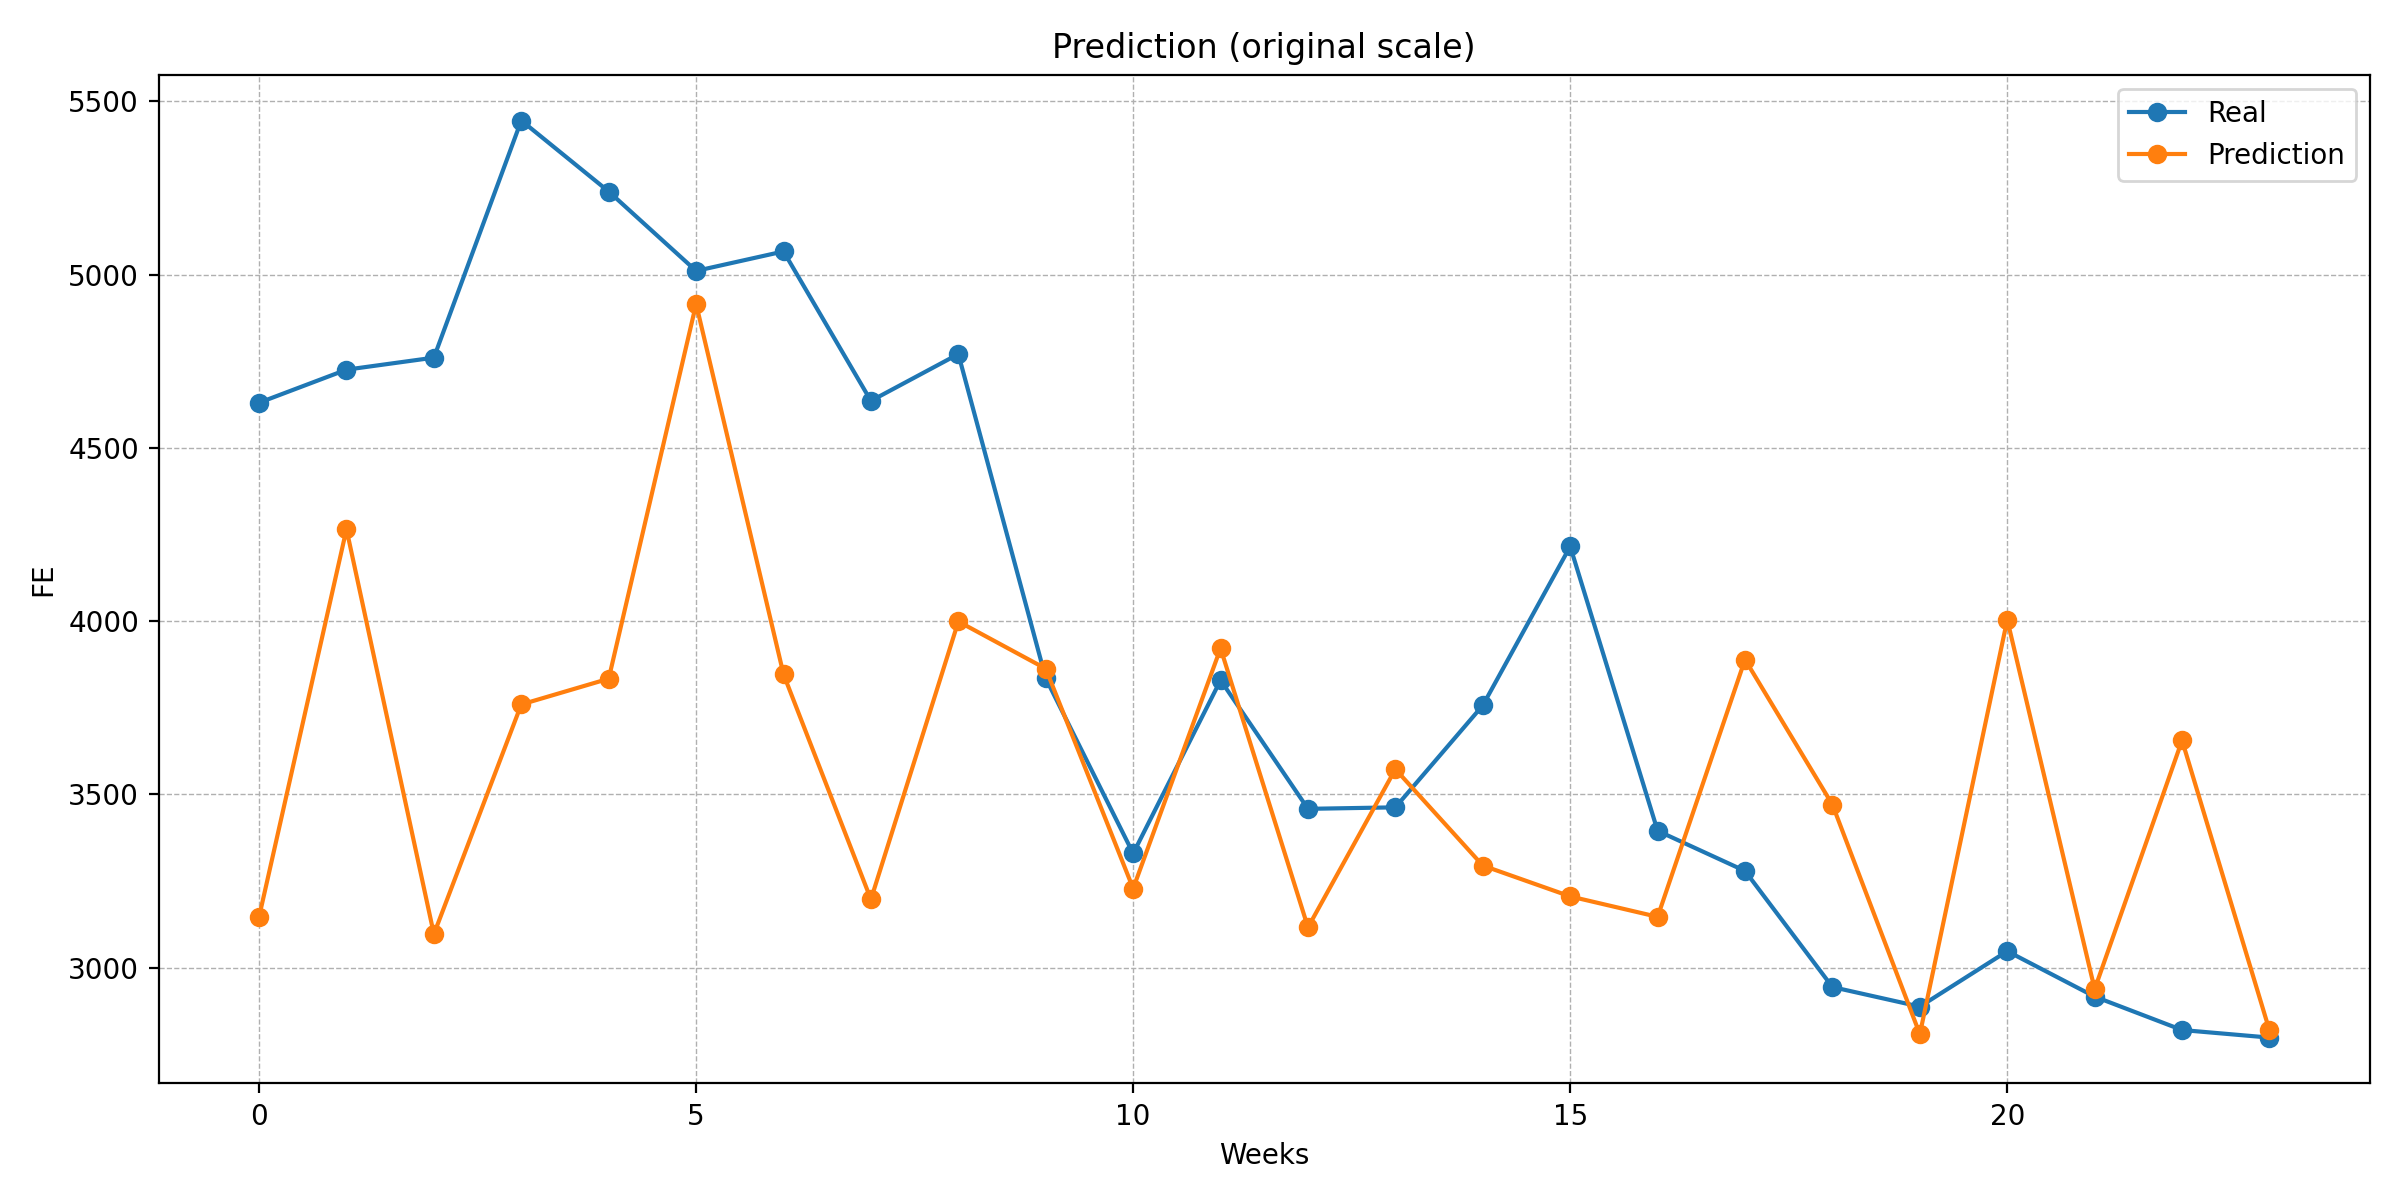
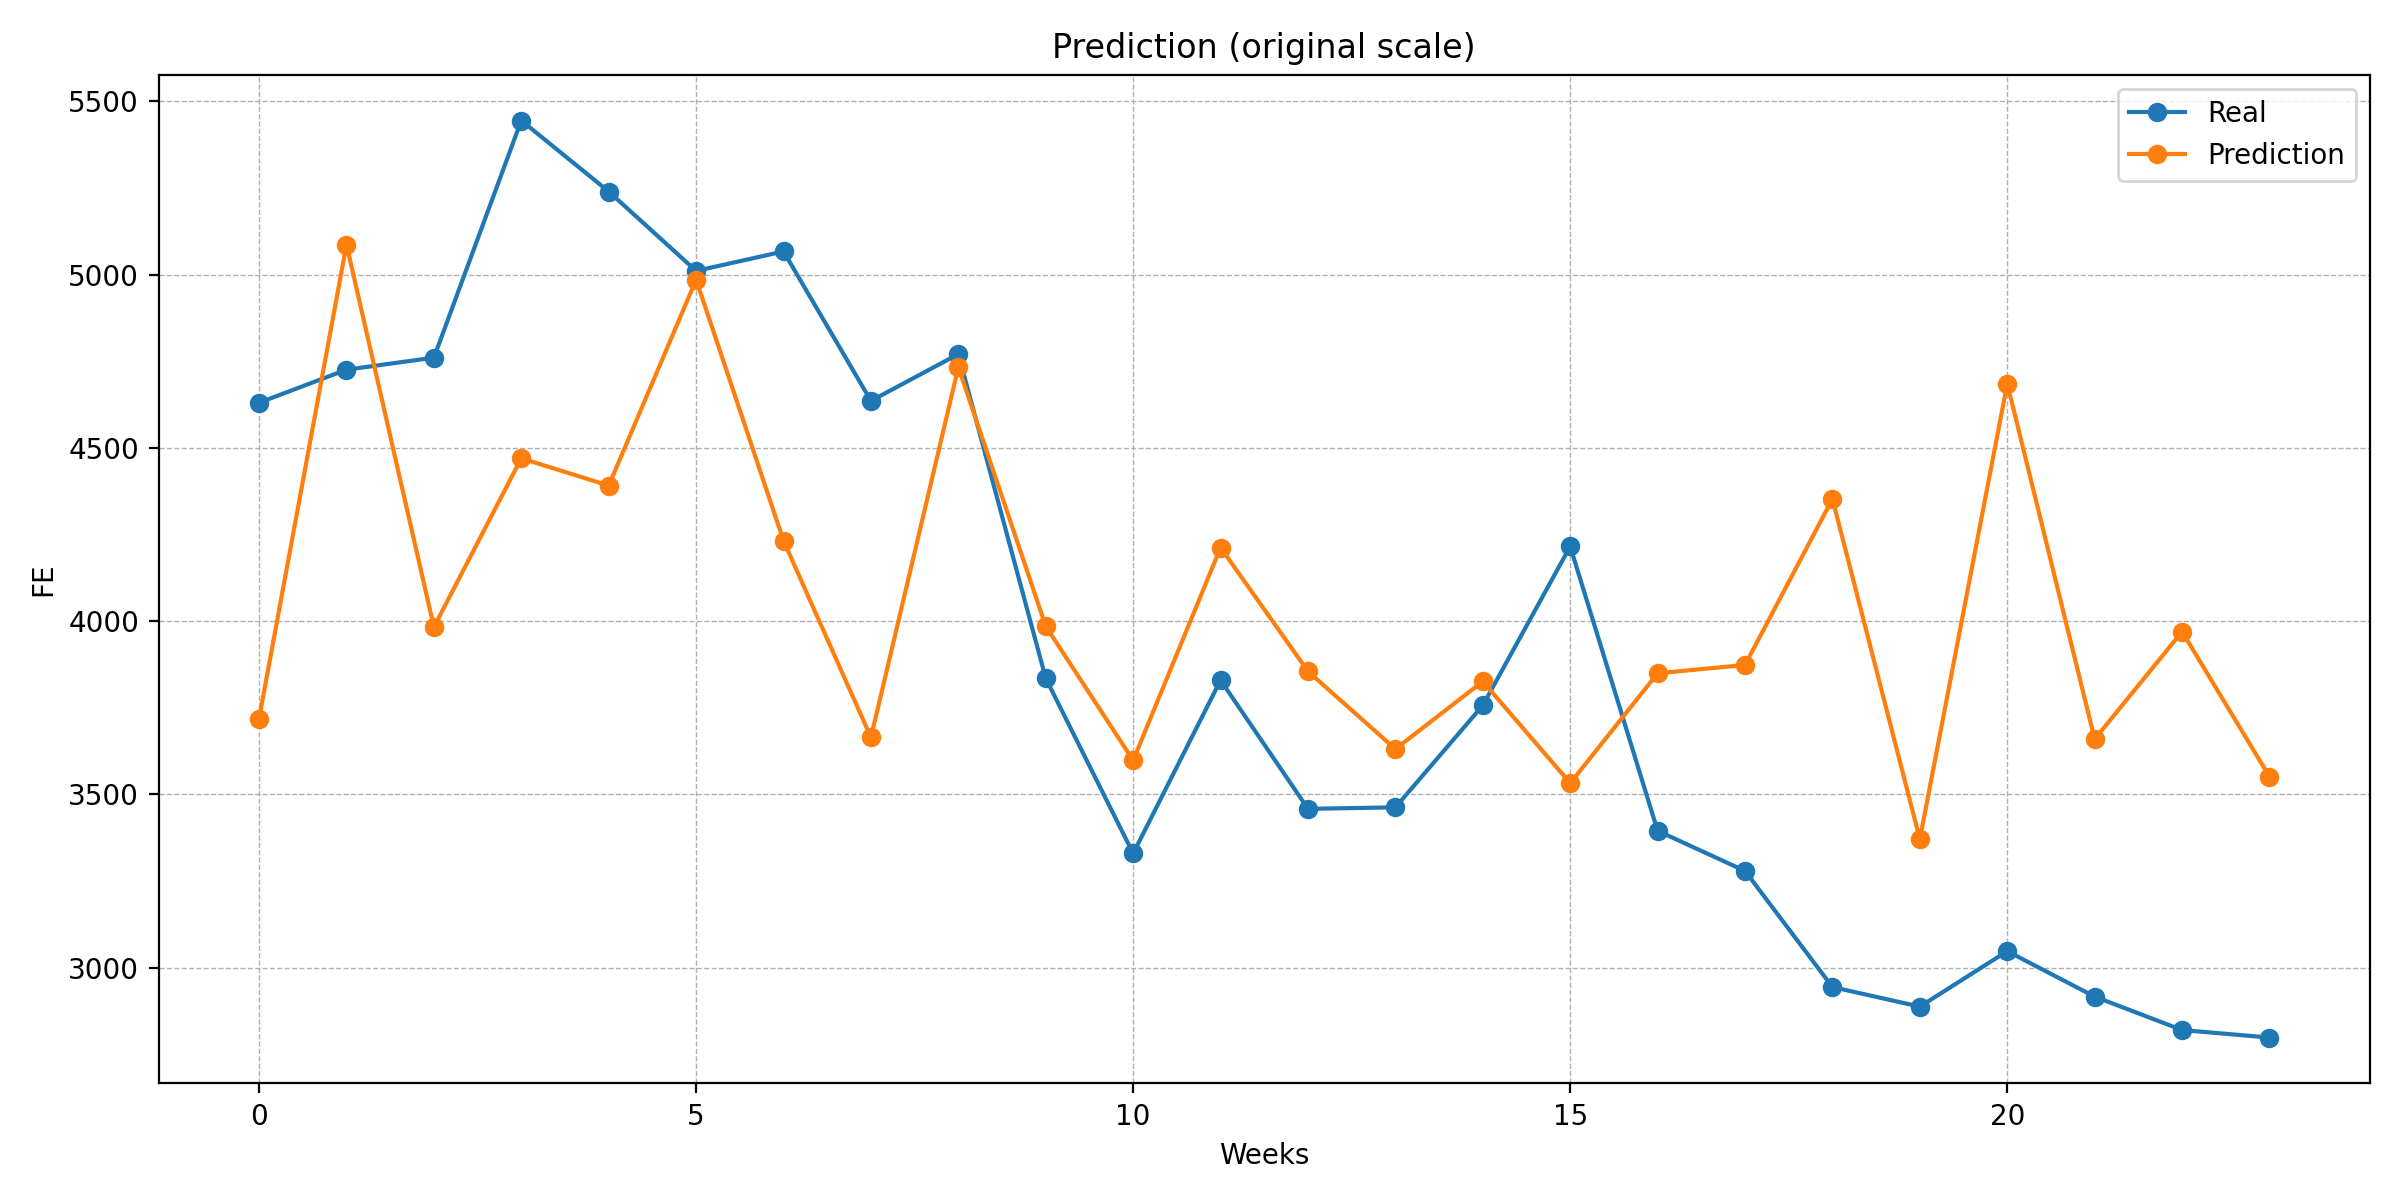
working

diff --git a/functions.py b/functions.py
@@ -13,39 +13,39 @@ from torch.utils.data import TensorDataset, DataLoader
 import torch.nn as nn
 import matplotlib.pyplot as plt
 
-def select_device(prefer: str | None = None) -> torch.device:
-    """
-    Choose the best available device.
-    Priority: user preference (if available) > CUDA > MPS (Apple Silicon) > CPU.
-
-    Args:
-        prefer: Optional string preference: "cuda", "mps", or "cpu".
-                If that backend isn't available, falls back automatically.
-
-    Returns:
-        torch.device
-    """
-    # Helper checks
-    cuda_ok = torch.cuda.is_available()
-    mps_ok = getattr(torch.backends, "mps", None) is not None and torch.backends.mps.is_available()
-
-    # Respect user preference if possible
-    if prefer is not None:
-        pref = prefer.lower()
-        if pref == "cuda" and cuda_ok:
-            return torch.device("cuda")
-        if pref == "mps" and mps_ok:
-            return torch.device("mps")
-        if pref == "cpu":
-            return torch.device("cpu")
-        # If preferred isn't available, continue to fallbacks
-
-    # Auto selection
-    if cuda_ok:
-        return torch.device("cuda")
-    if mps_ok:
-        return torch.device("mps")
-    return torch.device("cpu")
+# def select_device(prefer: str | None = None) -> torch.device:
+#     """
+#     Choose the best available device.
+#     Priority: user preference (if available) > CUDA > MPS (Apple Silicon) > CPU.
+#
+#     Args:
+#         prefer: Optional string preference: "cuda", "mps", or "cpu".
+#                 If that backend isn't available, falls back automatically.
+#
+#     Returns:
+#         torch.device
+#     """
+#     # Helper checks
+#     cuda_ok = torch.cuda.is_available()
+#     mps_ok = getattr(torch.backends, "mps", None) is not None and torch.backends.mps.is_available()
+#
+#     # Respect user preference if possible
+#     if prefer is not None:
+#         pref = prefer.lower()
+#         if pref == "cuda" and cuda_ok:
+#             return torch.device("cuda")
+#         if pref == "mps" and mps_ok:
+#             return torch.device("mps")
+#         if pref == "cpu":
+#             return torch.device("cpu")
+#         # If preferred isn't available, continue to fallbacks
+#
+#     # Auto selection
+#     if cuda_ok:
+#         return torch.device("cuda")
+#     if mps_ok:
+#         return torch.device("mps")
+#     return torch.device("cpu")
 
 
 def device_info(dev: torch.device) -> str:
@@ -171,10 +171,10 @@ def run_tft(data, target_col, window_size, test_size, grad_clip,
 
     return y_true, preds, tft, val_loader, training
 
-# recieves the data as a pandas dataframe as shown in the transformers.py file
+# receives the data as a pandas dataframe as shown in the transformers.py file
 def run_transformer(df, target_col, window_size, test_size, batch_size, d_model, n_head, num_layers, epoch_number, lr, device, seed):
     seed_everything(seed)
-    device = select_device(device if isinstance(device, str) else None)
+    # device = select_device(device if isinstance(device, str) else None)
     print(f"Using device: {device_info(device)}")
     feature_cols = [col for col in df.columns if col not in ['FECHA', target_col, 'series']]
 
@@ -275,7 +275,7 @@ def run_transformer(df, target_col, window_size, test_size, batch_size, d_model,
 def run_lstm(df, target_col, window_size, test_size, batch_size, hidden_size, num_layers, epoch_number, lr, device, seed):
 
     seed_everything(seed)
-    device = select_device(device if isinstance(device, str) else None)
+    # device = select_device(device if isinstance(device, str) else None)
     print(f"Using device: {device_info(device)}")
     feature_cols = [col for col in df.columns if col not in ['FECHA', target_col, 'series']]
     # Split train/test
@@ -365,7 +365,7 @@ def run_lstm(df, target_col, window_size, test_size, batch_size, hidden_size, nu
     return real, preds
 
 
-def run_sarima(df, target_col, test_size, p, d, q, P, D, Q, m, seed):
+def run_sarima(df, target_col, test_size, p, d, q, P, D, Q, m, seed = 1048596):
     feature_cols = [
         col for col in df.columns
         if col not in ['FECHA', target_col, 'series'] and target_col not in col

diff --git a/bayesopt_sarima.py b/bayesopt_sarima.py
@@ -44,17 +44,17 @@ print("Creating experiment...")
 client.configure_experiment(
     name="sarima_experiment",
     parameters=[
-        RangeParameterConfig(name="p", bounds=(0, 5), parameter_type="int"),
+        RangeParameterConfig(name="p", bounds=(0, 48), parameter_type="int"),
         RangeParameterConfig(name="d", bounds=(0, 2), parameter_type="int"),
         RangeParameterConfig(name="q", bounds=(0, 5), parameter_type="int"),
         RangeParameterConfig(name="P", bounds=(0, 2), parameter_type="int"),
-        RangeParameterConfig(name="D", bounds=(0, 1), parameter_type="int"),
+        RangeParameterConfig(name="D", bounds=(0, 2), parameter_type="int"),
         RangeParameterConfig(name="Q", bounds=(0, 2), parameter_type="int"),
-        ChoiceParameterConfig(name="m", values=[7, 12, 24, 52], parameter_type="int", is_ordered=True),
+        ChoiceParameterConfig(name="m", values=[7, 12, 24], parameter_type="int", is_ordered=True),
     ],
 )
 client.configure_optimization(objective="-mape")
-iterations = 5
+iterations = 20
 for _ in range(iterations):
     # Use higher value of `max_trials` to run trials in parallel.
     for trial_index, parameters in client.get_next_trials(max_trials=1).items():

diff --git a/transformers.py b/transformers.py
@@ -15,11 +15,11 @@ print("Using device:", device)
 
 import random
 
-SEED = 1048596
-random.seed(SEED)
-np.random.seed(SEED)
-torch.manual_seed(SEED)
-torch.cuda.manual_seed_all(SEED)
+seed = 1048596
+random.seed(seed)
+np.random.seed(seed)
+torch.manual_seed(seed)
+torch.cuda.manual_seed_all(seed)
 torch.backends.cudnn.deterministic = True
 torch.backends.cudnn.benchmark = False
 
@@ -41,7 +41,9 @@ num_layers = 2
 epoch_number = 500
 lr = 0.0001
 
-real, preds = run_transformer(df, target_col, window_size, test_size, batch_size, d_model, n_head, num_layers, epoch_number, lr, device)
+
+
+real, preds = run_transformer(df, target_col, window_size, test_size, batch_size, d_model, n_head, num_layers, epoch_number, lr, device, seed)
 
 print('')
 print("Error Metrics:")

diff --git a/LSTM.py b/LSTM.py
@@ -15,11 +15,11 @@ print("Using device:", device)
 
 import random
 
-SEED = 1048596
-random.seed(SEED)
-np.random.seed(SEED)
-torch.manual_seed(SEED)
-torch.cuda.manual_seed_all(SEED)
+seed = 1048596
+random.seed(seed)
+np.random.seed(seed)
+torch.manual_seed(seed)
+torch.cuda.manual_seed_all(seed)
 torch.backends.cudnn.deterministic = True
 torch.backends.cudnn.benchmark = False
 
@@ -41,7 +41,7 @@ num_layers = 2
 epoch_number = 20
 lr = 0.0001
 
-real, preds = run_lstm(df, target_col, window_size, test_size, batch_size, hidden_size, num_layers, epoch_number, lr, device)
+real, preds = run_lstm(df, target_col, window_size, test_size, batch_size, hidden_size, num_layers, epoch_number, lr, device, seed)
 
 print('')
 print("Error Metrics:")

diff --git a/sarima.py b/sarima.py
@@ -24,7 +24,7 @@ c = 1
 d = 1
 e = 1
 f = 1
-g = 52
+g = 3
 
 real, preds = run_sarima(df, target_col, test_size, a, b, c, d, e, f, g)
 
